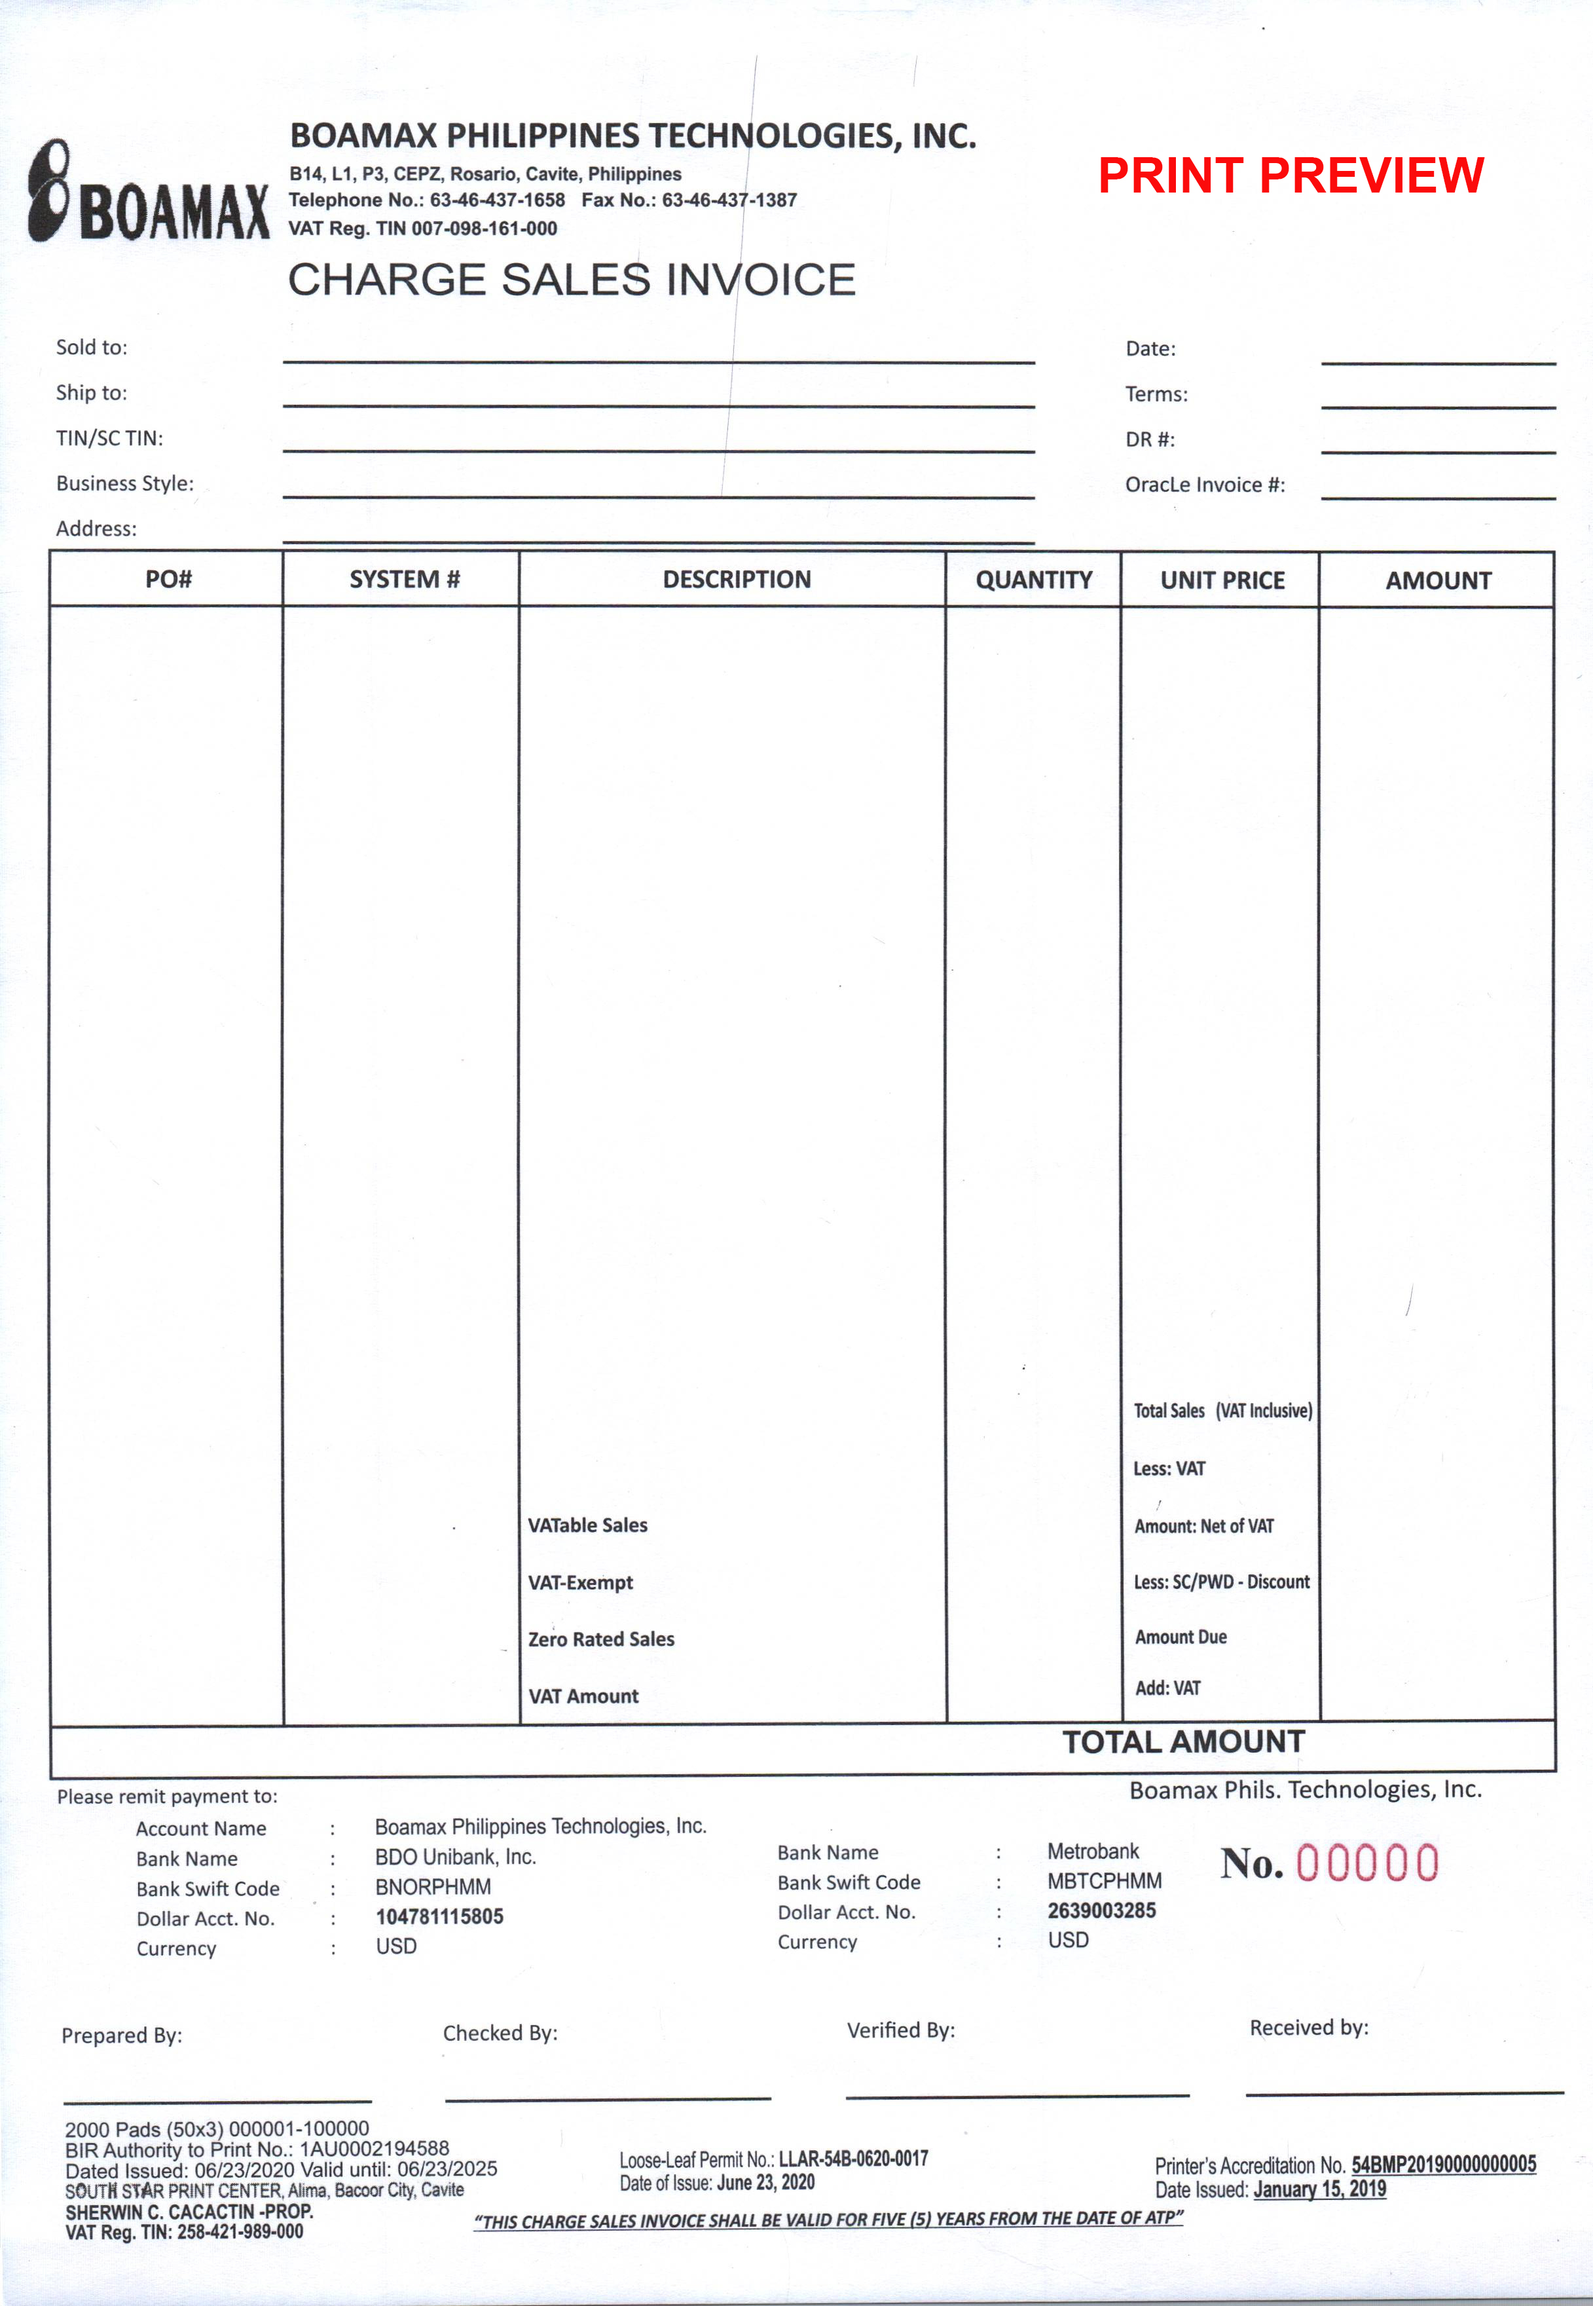
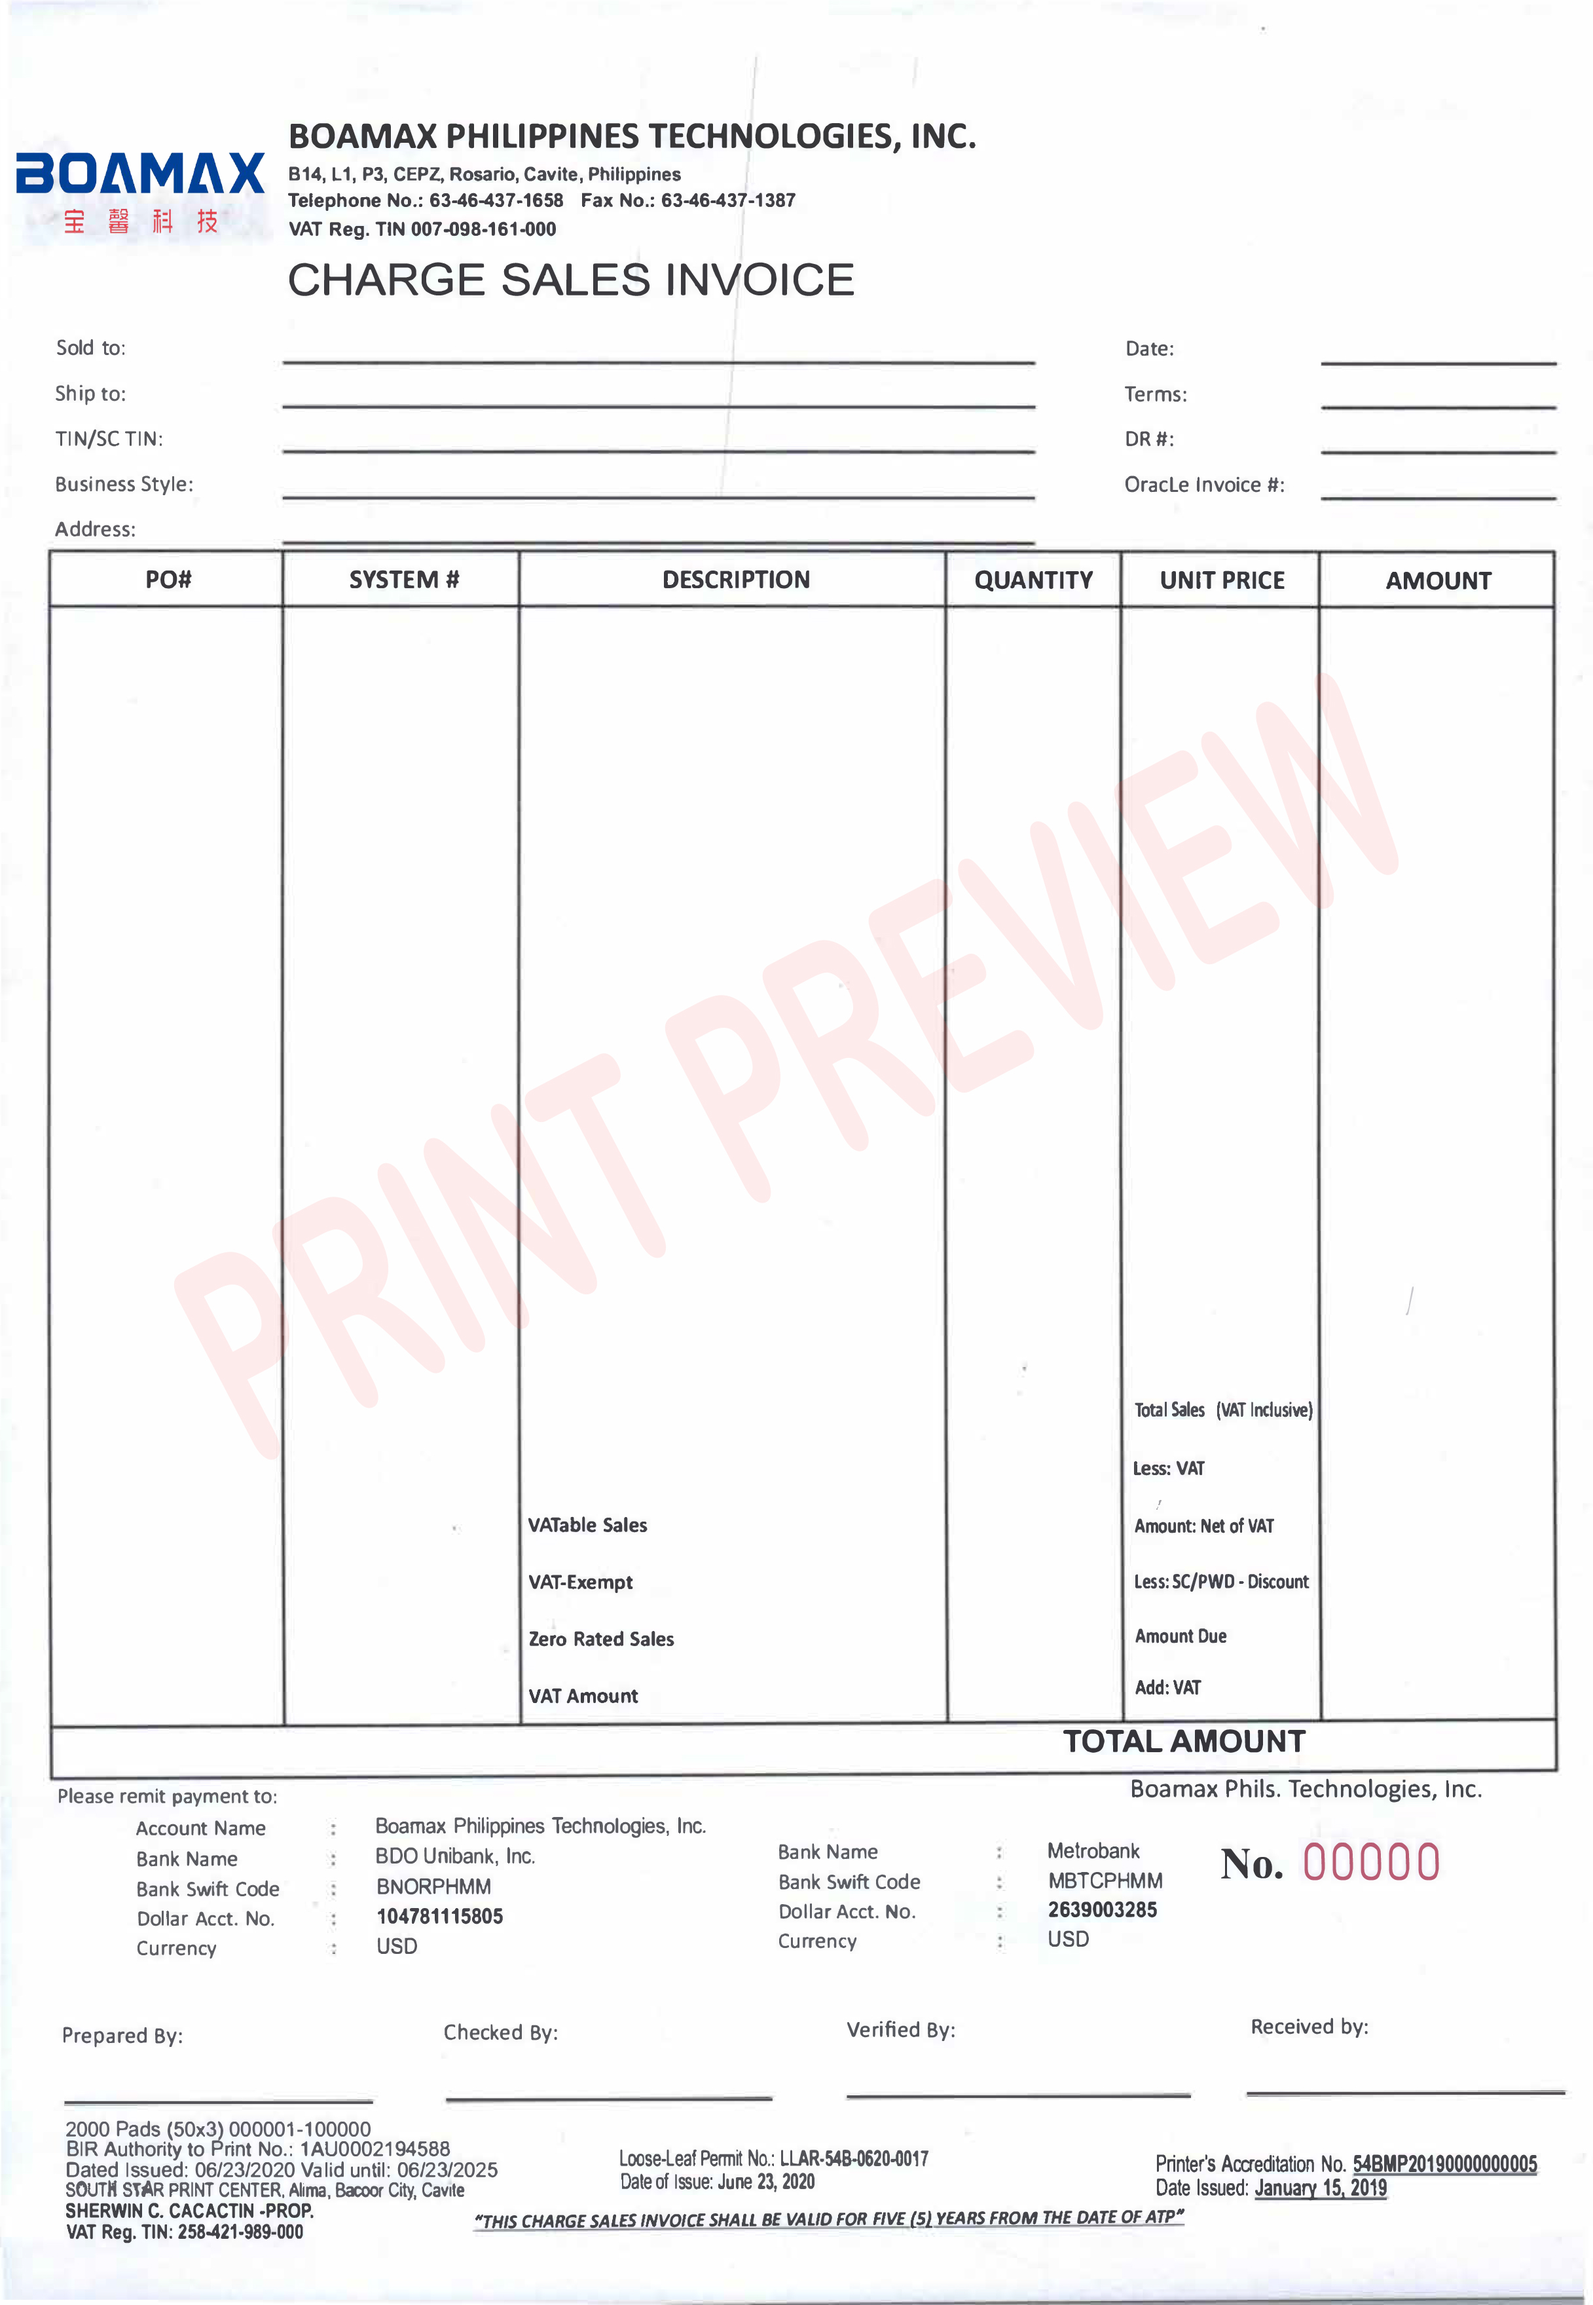
update SI DR background form

diff --git a/Sales/DR_BPTI/DR_confirmprint.php b/Sales/DR_BPTI/DR_confirmprint.php
@@ -319,7 +319,7 @@ function PrintRed(x, version){
 <br><br>
 
   <div class="form-container">
-    <img src="drform_blank.png?x=<?=time()?>" width="100%">
+    <img src="drform_blank.jpg?x=<?=time()?>" width="100%">
 
     <div class="delTo"><?=$CustName?></div>
     <div class="date"><?=date_format(date_create($Date), "M d, Y")?></div>
